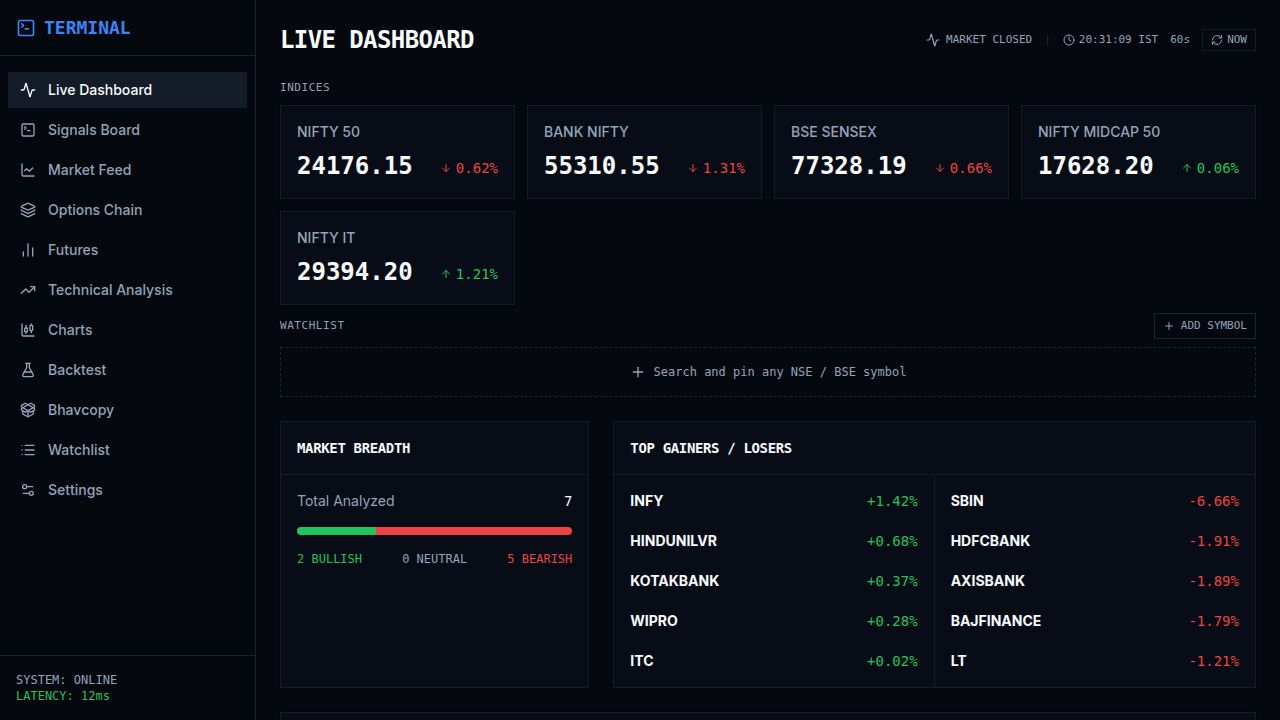
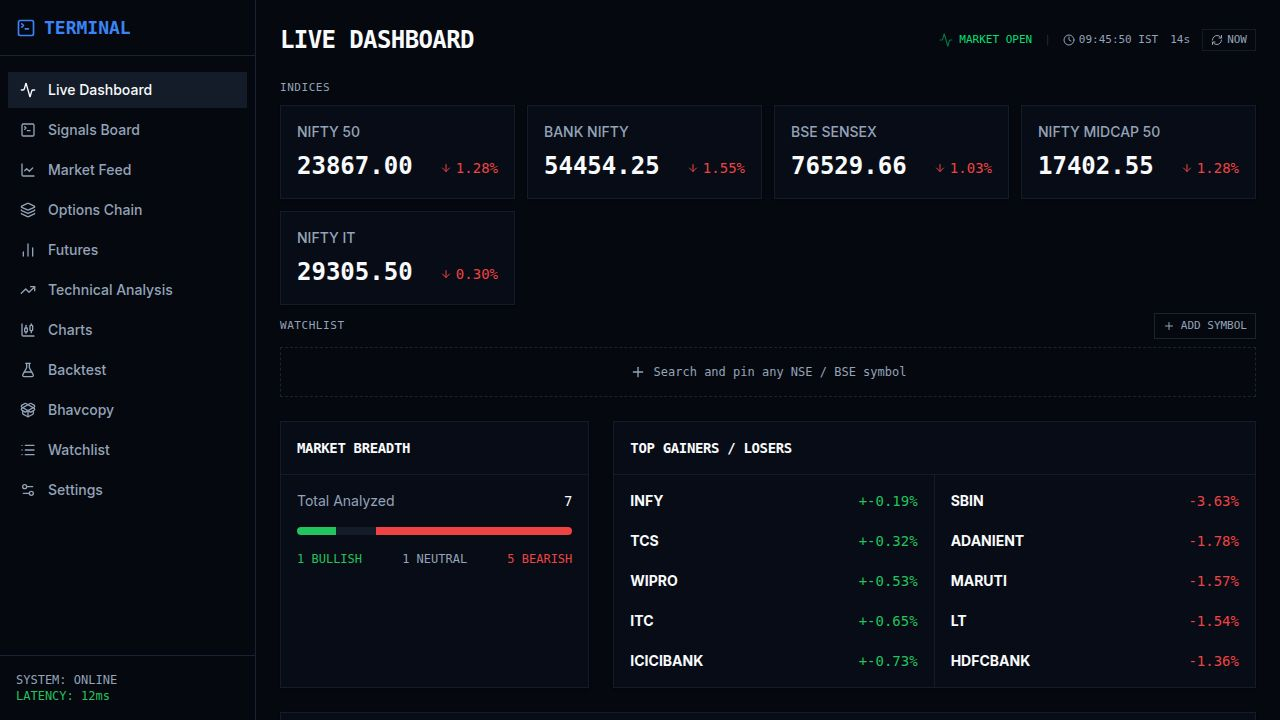
Fix issues with market data display and analysis page labels
Refactors the market movers API to correctly filter gainers and losers by percentage change, and updates the dashboard and analysis page to display accurate information.

Replit-Commit-Author: Agent
Replit-Commit-Session-Id: 3b5c971d-30dd-4cfa-b5a8-5fe46c6d2a3d
Replit-Commit-Checkpoint-Type: full_checkpoint
Replit-Commit-Event-Id: 47185471-7c91-411f-96fe-8b12276e3ace
Replit-Commit-Screenshot-Url: https://storage.googleapis.com/screenshot-production-us-central1/d43f1a26-4e25-4acf-9ae5-d41a19129fbf/3b5c971d-30dd-4cfa-b5a8-5fe46c6d2a3d/bfTWbgr
Replit-Helium-Checkpoint-Created: true

diff --git a/artifacts/api-server/src/routes/market.ts b/artifacts/api-server/src/routes/market.ts
@@ -523,11 +523,18 @@ router.get("/market/movers", async (req, res) => {
     );
 
     const valid = quotes.filter(Boolean) as any[];
-    const sorted = [...valid].sort((a, b) => b.changePercent - a.changePercent);
+    const sortedDesc = [...valid].sort((a, b) => b.changePercent - a.changePercent);
+    const sortedAsc  = [...valid].sort((a, b) => a.changePercent - b.changePercent);
 
+    // Only include true gainers (positive %) and true losers (negative %)
+    const gainers = sortedDesc.filter((q) => q.changePercent > 0).slice(0, 5);
+    const losers  = sortedAsc.filter((q) => q.changePercent < 0).slice(0, 5);
+
+    // Fallback: if no true gainers/losers (entire market moved one way),
+    // show the least-negative / least-positive performers so the UI is never empty
     res.json({
-      gainers: sorted.slice(0, 5),
-      losers: sorted.slice(-5).reverse(),
+      gainers: gainers.length > 0 ? gainers : sortedDesc.slice(0, 5),
+      losers:  losers.length  > 0 ? losers  : sortedAsc.slice(0, 5),
       mostActive: [...valid]
         .sort((a, b) => b.volume - a.volume)
         .slice(0, 5),

diff --git a/artifacts/market-dashboard/src/pages/dashboard.tsx b/artifacts/market-dashboard/src/pages/dashboard.tsx
@@ -387,7 +387,9 @@ export default function Dashboard() {
                   {movers.gainers.slice(0, 5).map(g => (
                     <div key={g.symbol} className="flex justify-between items-center p-2 hover:bg-muted/50 rounded-sm">
                       <span className="font-bold text-sm">{g.symbol}</span>
-                      <span className="text-success font-mono text-sm">+{g.changePercent.toFixed(2)}%</span>
+                      <span className={cn("font-mono text-sm", g.changePercent >= 0 ? "text-success" : "text-destructive")}>
+                        {g.changePercent >= 0 ? "+" : ""}{g.changePercent.toFixed(2)}%
+                      </span>
                     </div>
                   ))}
                 </div>

diff --git a/artifacts/market-dashboard/src/pages/analysis.tsx b/artifacts/market-dashboard/src/pages/analysis.tsx
@@ -193,7 +193,7 @@ export default function AnalysisBoard() {
 
           <div className="flex items-center gap-1 text-xs font-mono border border-muted rounded-sm px-2 py-1">
             <Cpu className="h-3 w-3 text-success" />
-            <span className="text-muted-foreground">NVIDIA</span>
+            <span className="text-muted-foreground">OPENAI GPT-5.4</span>
           </div>
 
           <div className={cn(